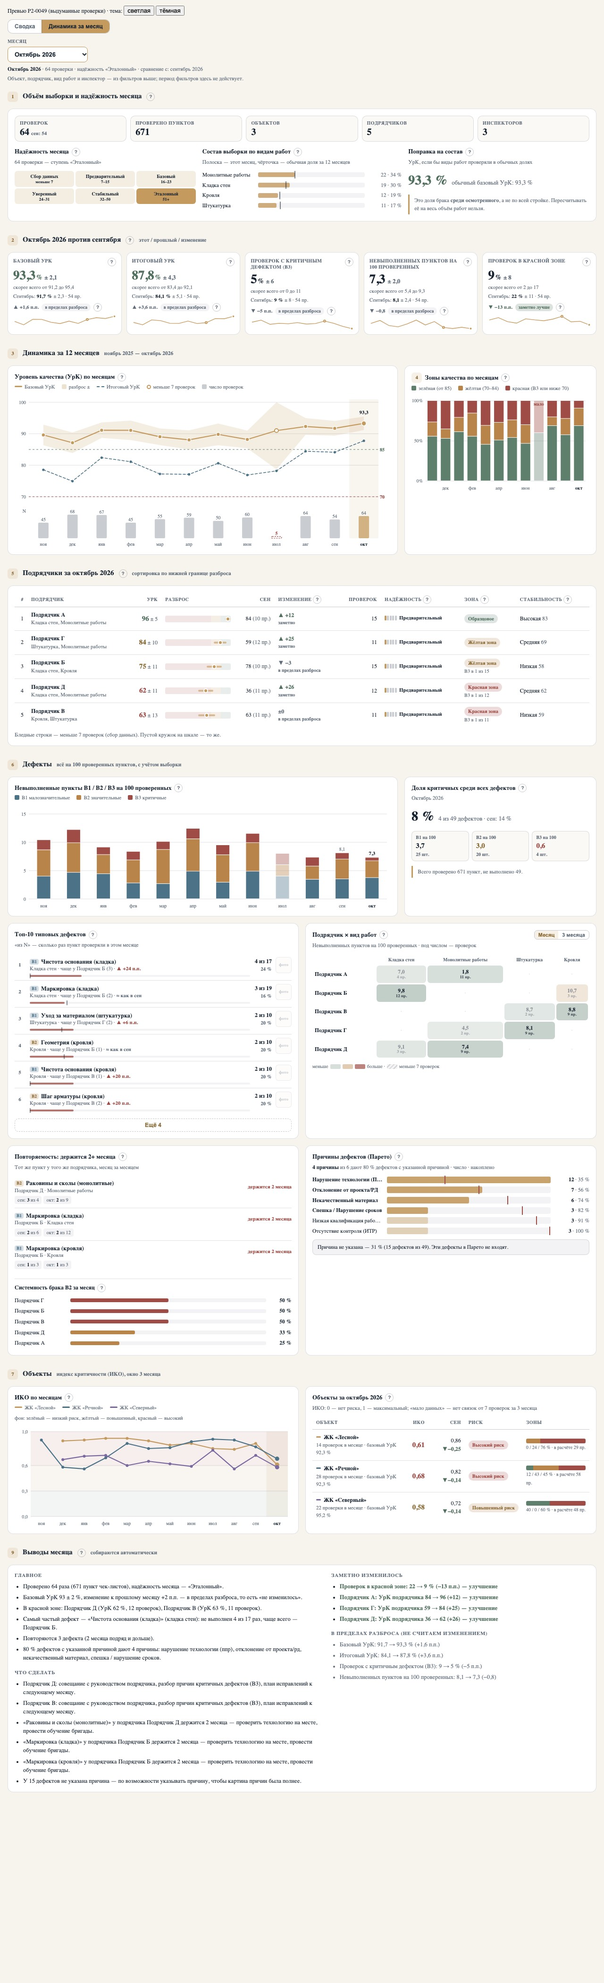
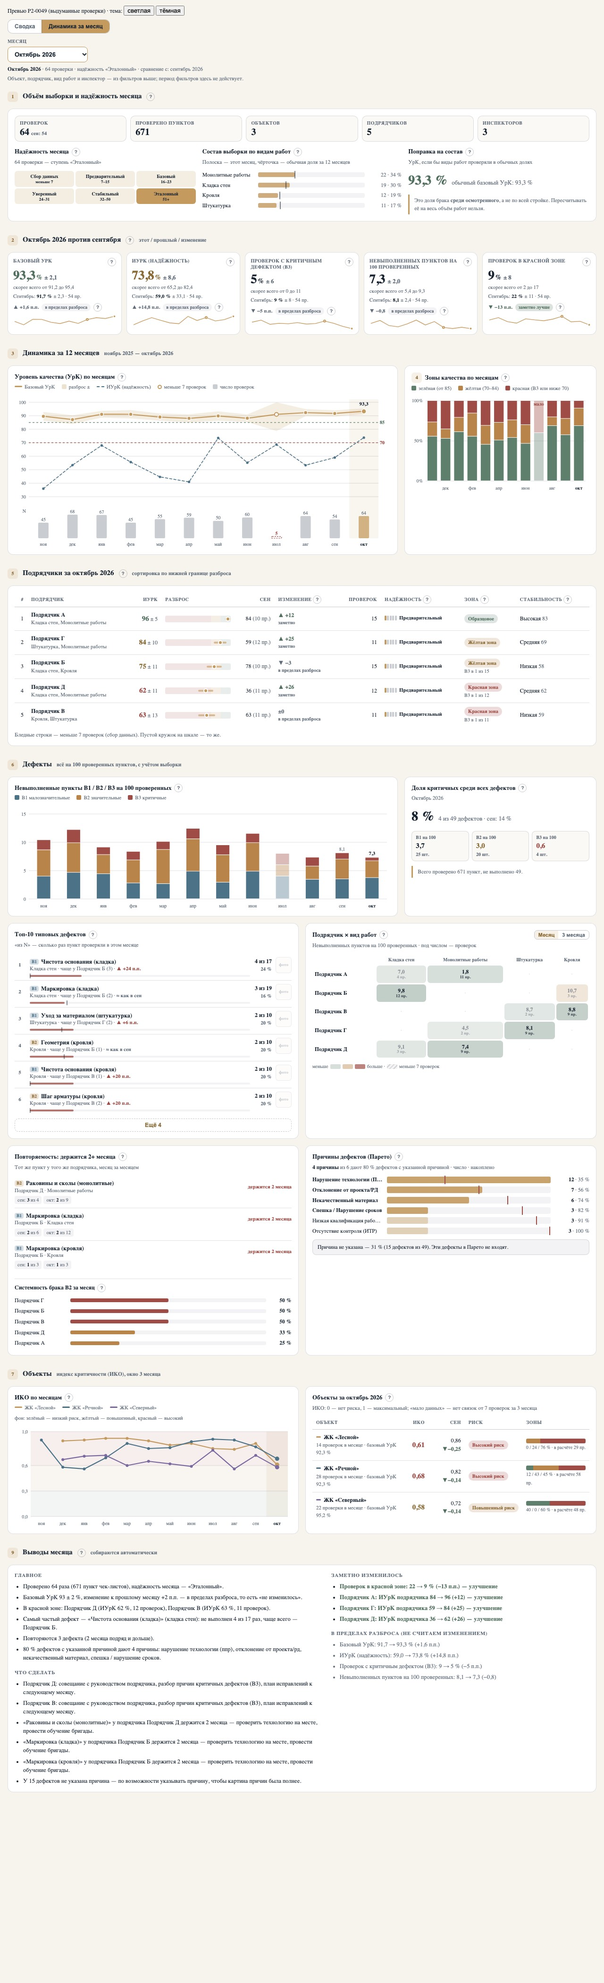
P2-0049 этап 3 (правка владельца): вторая плитка, пунктир тренда и столбец подрядчиков — ИУрК (интегральный уровень качества, надёжность по серии проверок) как «Надёжность» в Сводке: getContractorMetrics по группам «подрядчик [объект]» за месяц без окна, среднее по группам от 7 проверок, иначе «мало

Changed region(s): [[0.0625, 0.1871, 0.5938, 0.2495], [0.625, 0.811, 0.7188, 0.8421], [0.2188, 0.1248, 0.3125, 0.156]]

diff --git a/js/modules/quality/features/analytics/month-dynamics.view.js b/js/modules/quality/features/analytics/month-dynamics.view.js
@@ -33,13 +33,13 @@ const HINTS = {
   mix: '<b>Поправка на состав.</b> Если в месяце больше проверили «трудный» вид работ, общий УрК может упасть без реального ухудшения. Здесь УрК пересчитан так, будто виды работ проверяли в обычных долях за 12 месяцев.',
   delta: '<b>Этот / прошлый месяц.</b> Изменение «заметное», только если оно больше разброса обоих месяцев. Иначе — «в пределах разброса»: разница может быть случайной. Если в любом месяце меньше 7 проверок — «мало данных», не сравниваем.',
   base: '<b>Базовый УрК</b> — средняя доля выполненных пунктов с весами (B1 = 1, B2 = 2, B3 = 3) по проверкам месяца, без штрафов. Рядом — разброс ±: где скорее всего находится настоящее значение.',
-  final: '<b>Итоговый УрК</b> — УрК проверок со штрафами за значимые (B2) и критичные (B3) дефекты, как в карточке проверки.',
+  iurk: '<b>ИУрК — интегральный уровень качества (надёжность)</b> — уровень качества по серии проверок, как «Надёжность» в «Сводке»: у каждого подрядчика на объекте — по всем его проверкам месяца, со штрафами за системный брак B2 и долю проверок с B3; среднее — по подрядчикам, у кого от 7 проверок. Если таких нет — «мало данных».',
   b3share: '<b>Проверок с критичным дефектом</b> — доля проверок месяца, где найден хотя бы один B3.',
   per100: '<b>Невыполненных пунктов на 100 проверенных</b> — делим на пункты, а не на проверки: чек-листы разной длины.',
-  red: '<b>Красная зона</b> — проверки с критичным дефектом (B3) или итоговым УрК ниже 70.',
-  trend: '<b>Тренд за 12 месяцев.</b> Сплошная линия — базовый УрК, полоса вокруг — разброс ±, пунктир — итоговый УрК. Пустой кружок — меньше 7 проверок. Внизу — число проверок по месяцам.',
-  zones: '<b>Зоны качества</b> — доли проверок месяца: зелёная (итоговый УрК от 85), жёлтая (70–84), красная (B3 или ниже 70).',
-  cons: '<b>УрК подрядчика за месяц</b> — по всем проверкам календарного месяца (не «последние 15»), те же штрафы за системный брак и B3, что в рейтинге. Сортировка — по нижней границе разброса: подрядчик с двумя случайно хорошими проверками не окажется первым. Меньше 7 проверок — бледная строка, ниже всех.',
+  red: '<b>Красная зона</b> — проверки с критичным дефектом (B3) или с УрК проверки (со штрафами, как в карточке проверки) ниже 70.',
+  trend: '<b>Тренд за 12 месяцев.</b> Сплошная линия — базовый УрК, полоса вокруг — разброс ±, пунктир — ИУрК (надёжность по серии проверок). Пустой кружок — меньше 7 проверок. Внизу — число проверок по месяцам.',
+  zones: '<b>Зоны качества</b> — доли проверок месяца по УрК самой проверки (со штрафами, как в карточке проверки): зелёная (от 85), жёлтая (70–84), красная (B3 или ниже 70).',
+  cons: '<b>ИУрК подрядчика за месяц</b> (надёжность) — по всем проверкам календарного месяца (не «последние 15»), те же штрафы за системный брак и B3, что в рейтинге. Сортировка — по нижней границе разброса: подрядчик с двумя случайно хорошими проверками не окажется первым. Меньше 7 проверок — бледная строка, ниже всех.',
   stab: '<b>Стабильность</b> — насколько ровно работает подрядчик от проверки к проверке (100 — одинаково, ниже 40 — качество скачет).',
   zoneC: '<b>Зона подрядчика</b> — красная: УрК ниже 70, или B3 в 20 % проверок и больше, или системный брак B2 от 40 %; «Образцовое» — УрК от 85 без B3 и без системного брака.',
   bcl: '<b>B1 / B2 / B3 на 100 проверенных пунктов</b> — малозначительные, значительные и критичные невыполненные пункты, делённые на число осмотренных пунктов.',
@@ -384,7 +384,7 @@ function chartTrend(w, r) {
   const pl = 30, pr = narrow ? 8 : 26, pt = 16, h1 = narrow ? 170 : 200, gap = 26, h2 = narrow ? 52 : 62, h = pt + h1 + gap + h2 + 20;
   const { bw, x } = band(ms.length, w, pl, pr);
   let mn = 100;
-  ms.forEach((m) => { if (m.base) mn = Math.min(mn, m.base.lo != null ? m.base.lo : m.base.mean, m.final.mean); });
+  ms.forEach((m) => { if (m.base) mn = Math.min(mn, m.base.lo != null ? m.base.lo : m.base.mean, m.iurk ? m.iurk.mean : 100); });
   let ymin = Math.max(0, Math.floor((mn - 3) / 10) * 10);
   if (ymin > 70) ymin = 60;
   const y = lin(ymin, 100, pt + h1, pt);
@@ -418,15 +418,15 @@ function chartTrend(w, r) {
     });
     return '<path d="' + d + '" class="ln ' + cls + '"/>';
   };
-  s += line('final', 'ln-final');
+  s += line('iurk', 'ln-final');
   s += line('base', 'ln-base');
   ms.forEach((m, i) => {
     if (!m.base) return;
     const tip = monthFull(m.key) + ': проверок ' + m.N + (m.few ? ' (мало данных)' : '')
       + '\nБазовый УрК ' + fmt(m.base.mean, 1) + (m.base.E != null ? ' ± ' + fmt(m.base.E, 1) : '') + ' %'
-      + '\nИтоговый УрК ' + fmt(m.final.mean, 1) + ' %';
+      + (m.iurk ? '\nИУрК ' + fmt(m.iurk.mean, 1) + ' %' + (m.iurk.few ? ' (ни у кого нет 7 проверок)' : '') : '');
     s += '<g><title>' + esc(tip) + '</title>';
-    s += '<circle cx="' + x(i).toFixed(1) + '" cy="' + y(m.final.mean).toFixed(1) + '" r="2.6" class="dot-final"/>';
+    if (m.iurk) s += '<circle cx="' + x(i).toFixed(1) + '" cy="' + y(m.iurk.mean).toFixed(1) + '" r="2.6" class="dot-final"/>';
     s += '<circle cx="' + x(i).toFixed(1) + '" cy="' + y(m.base.mean).toFixed(1) + '" r="' + (i === sel ? 5 : 4) + '" class="' + (m.few ? 'dot-hollow' : 'dot-base') + '"/>';
     s += '<rect x="' + (x(i) - bw / 2).toFixed(1) + '" y="' + pt + '" width="' + bw.toFixed(1) + '" height="' + h1 + '" fill="transparent"/></g>';
     if (i === sel) s += txt(x(i), y(m.base.hi != null ? Math.min(100, m.base.hi) : m.base.mean) - 6, fmt(m.base.mean, 1), 'val');
@@ -573,13 +573,13 @@ function blockVolume(r, all) {
     + '<div class="md-note">Это доля брака <b>среди осмотренного</b>, а не по всей стройке. Пересчитывать её на весь объём работ нельзя.</div></div></div></div>';
 }
 
-const TILE_FMT = { base: { d: 1, u: ' %' }, final: { d: 1, u: ' %' }, b3share: { d: 0, u: ' %' }, per100: { d: 1, u: '' }, red: { d: 0, u: ' %' } };
+const TILE_FMT = { base: { d: 1, u: ' %' }, iurk: { d: 1, u: ' %' }, b3share: { d: 0, u: ' %' }, per100: { d: 1, u: '' }, red: { d: 0, u: ' %' } };
 
 function tileHtml(t, r) {
   const c = t.cur, p = t.prev, f = TILE_FMT[t.key], d = f.d, isPct = f.u === ' %';
   const head = '<div class="t-head"><span class="t-title">' + esc(t.title) + '</span>' + hint(t.key) + '</div>';
   if (!c) return '<div class="md-tile">' + head + '<div class="t-val md-muted">—</div><div class="t-range">нет проверок</div></div>';
-  const valCls = (t.key === 'base' || t.key === 'final') ? 'md-' + zoneOfUrk(c.mean) : '';
+  const valCls = (t.key === 'base' || t.key === 'iurk') ? 'md-' + zoneOfUrk(c.mean) : '';
   const cmp = t.cmp;
   const pp = isPct ? ' п.п.' : '';
   let dl;
@@ -611,7 +611,7 @@ function blockTrend(r) {
   const first = r.trend[0].key, last = r.trend[r.trend.length - 1].key;
   return '<h2 class="md-sec"><span class="n">3</span>Динамика за 12 месяцев<span class="note">' + esc(monthFull(first).toLowerCase()) + ' — ' + esc(monthFull(last).toLowerCase()) + '</span></h2>'
     + '<div class="md-card md-d4"><h3>Уровень качества (УрК) по месяцам' + hint('trend') + '</h3>'
-    + '<div class="md-lg"><span><i class="line" style="background:var(--md-gold)"></i>Базовый УрК</span><span><i style="background:var(--md-gold);opacity:.3"></i>разброс ±</span><span><i class="dash"></i>Итоговый УрК</span><span><i class="hollow"></i>меньше 7 проверок</span><span><i style="background:var(--md-line2)"></i>число проверок</span></div>'
+    + '<div class="md-lg"><span><i class="line" style="background:var(--md-gold)"></i>Базовый УрК</span><span><i style="background:var(--md-gold);opacity:.3"></i>разброс ±</span><span><i class="dash"></i>ИУрК (надёжность)</span><span><i class="hollow"></i>меньше 7 проверок</span><span><i style="background:var(--md-line2)"></i>число проверок</span></div>'
     + '<div class="md-chart" data-md-chart="trend"></div></div>'
     + '<div class="md-card md-d2"><h3><span class="md-sec" style="margin:0;font-size:13px"><span class="n">4</span></span>Зоны качества по месяцам' + hint('zones') + '</h3>'
     + '<div class="md-lg"><span><i style="background:var(--md-ok)"></i>зелёная (от 85)</span><span><i style="background:var(--md-warn)"></i>жёлтая (70–84)</span><span><i style="background:var(--md-bad)"></i>красная (B3 или ниже 70)</span></div>'
@@ -641,7 +641,7 @@ function blockCons(r) {
     return '<tr class="' + (m.conf.few ? 'faint' : '') + '">'
       + '<td data-label="Место" class="r rk">' + (i + 1) + '</td>'
       + '<td data-label="Подрядчик" class="name full nolbl"><span class="md-rk-inline">' + (i + 1) + '.</span>' + esc(x.name) + '<small>' + esc(x.types.join(', ')) + '</small></td>'
-      + '<td data-label="УрК за ' + monthShort(r.month) + '" class="r"><b class="md-' + zoneOfUrk(m.U) + '" style="font-size:15px">' + m.U + '</b>' + (m.E != null ? ' <span class="md-muted">± ' + fmt(m.E) + '</span>' : '') + '</td>'
+      + '<td data-label="ИУрК за ' + monthShort(r.month) + '" class="r"><b class="md-' + zoneOfUrk(m.U) + '" style="font-size:15px">' + m.U + '</b>' + (m.E != null ? ' <span class="md-muted">± ' + fmt(m.E) + '</span>' : '') + '</td>'
       + '<td data-label="Разброс (0–100)" class="full">' + rngBar(m) + '</td>'
       + '<td data-label="' + ps + '" class="r">' + (mp ? mp.U + ' <span class="md-muted">(' + mp.N + ' пр.)</span>' : '—') + '</td>'
       + '<td data-label="Изменение"><span class="md-dlt ' + dcls + '">' + dtxt + '<small>' + dsub + '</small></span></td>'
@@ -651,7 +651,7 @@ function blockCons(r) {
       + '<td data-label="Стабильность">' + esc(m.stabText) + ' <span class="md-muted">' + m.stab + '</span></td></tr>';
   }).join('');
   return '<h2 class="md-sec"><span class="n">5</span>Подрядчики за ' + esc(monthFull(r.month).toLowerCase()) + hint('cons') + '<span class="note">сортировка по нижней границе разброса</span></h2>'
-    + '<div class="md-card md-d6">' + (rows ? '<div class="md-tblw"><table class="md-tbl cards"><thead><tr><th class="r">#</th><th>Подрядчик</th><th class="r">УрК</th><th>Разброс</th><th class="r">' + ps + '</th><th>Изменение ' + hint('delta') + '</th><th class="r">Проверок</th><th>Надёжность ' + hint('conf') + '</th><th>Зона ' + hint('zoneC') + '</th><th>Стабильность ' + hint('stab') + '</th></tr></thead><tbody>' + rows + '</tbody></table></div>' : '<p class="md-muted">Нет проверок</p>')
+    + '<div class="md-card md-d6">' + (rows ? '<div class="md-tblw"><table class="md-tbl cards"><thead><tr><th class="r">#</th><th>Подрядчик</th><th class="r">ИУрК</th><th>Разброс</th><th class="r">' + ps + '</th><th>Изменение ' + hint('delta') + '</th><th class="r">Проверок</th><th>Надёжность ' + hint('conf') + '</th><th>Зона ' + hint('zoneC') + '</th><th>Стабильность ' + hint('stab') + '</th></tr></thead><tbody>' + rows + '</tbody></table></div>' : '<p class="md-muted">Нет проверок</p>')
     + '<p class="sub" style="margin:8px 0 0">Бледные строки — меньше 7 проверок (сбор данных). Пустой кружок на шкале — то же.</p></div>';
 }
 

diff --git a/js/modules/quality/features/analytics/month-dynamics.calc.js b/js/modules/quality/features/analytics/month-dynamics.calc.js
@@ -141,7 +141,7 @@ export function reliability(N) {
 export function compareMonths(cur, prev, higherIsBetter) {
   if (!cur || !prev) return { kind: 'few', d: null };
   var d = cur.mean - prev.mean;
-  if (cur.N < FEW_DATA_N || prev.N < FEW_DATA_N) return { kind: 'few', d: d };
+  if (cur.N < FEW_DATA_N || prev.N < FEW_DATA_N || cur.few || prev.few) return { kind: 'few', d: d };
   var notable = Math.abs(d) > (cur.E || 0) && Math.abs(d) > (prev.E || 0);
   return { kind: notable ? 'notable' : 'within', d: d, good: higherIsBetter ? d > 0 : d < 0 };
 }
@@ -235,6 +235,40 @@ export function typeShares(list) {
   return out;
 }
 
+/**
+ * ИУрК месяца — интегральный уровень качества (надёжность) по серии проверок, как «Надёжность» в «Сводке»
+ * (avgContractorRatingsFromChecks): у каждой группы «подрядчик [объект]» — getContractorMetrics по всем её
+ * проверкам месяца (без скользящего окна, штрафы за системный B2 и долю проверок с B3); среднее — по группам
+ * от 7 проверок. Нет ни одной такой группы — среднее по всем группам и пометка «мало данных».
+ * Разброс: по группам (их ≥ 2) или разброс самой группы, если она одна.
+ */
+export function integralUrk(list, opts) {
+  var w = _w();
+  var fn = (opts && opts.contractorMetrics) || w.getContractorMetrics;
+  var keyOf = typeof w.contractorGroupKey === 'function' ? w.contractorGroupKey
+    : function (c) { return checkContractor(c) + ' [' + checkObject(c) + ']'; };
+  list = (list || []).filter(hasMetrics);
+  if (typeof fn !== 'function' || !list.length) return null;
+  var g = {};
+  list.forEach(function (c) { var k = keyOf(c); (g[k] = g[k] || []).push(c); });
+  var all = [], ok = [];
+  Object.keys(g).forEach(function (k) {
+    var m = fn(g[k], (opts && opts.templates) || {}, false);
+    if (!m) return;
+    all.push(m);
+    if (m.count >= FEW_DATA_N) ok.push(m);
+  });
+  if (!all.length) return null;
+  var use = ok.length ? ok : all;
+  var st = meanWithMargin(use.map(function (m) { return m.finalC; }));
+  var E = use.length >= 2 ? st.E : (use[0].count >= 2 ? use[0].ci95_margin : null);
+  return {
+    N: list.length, mean: st.mean, E: E,
+    lo: E == null ? null : st.mean - E, hi: E == null ? null : st.mean + E,
+    groups: use.length, groupsAll: all.length, few: !ok.length
+  };
+}
+
 /** Плитки «этот / прошлый / изменение». */
 export function buildTiles(cur, prev) {
   function tile(key, title, c, p, higherIsBetter) {
@@ -242,7 +276,7 @@ export function buildTiles(cur, prev) {
   }
   return [
     tile('base', 'Базовый УрК', cur.base, prev.base, true),
-    tile('final', 'Итоговый УрК', cur.final, prev.final, true),
+    tile('iurk', 'ИУрК (надёжность)', cur.iurk, prev.iurk, true),
     tile('b3share', 'Проверок с критичным дефектом (B3)', cur.b3share, prev.b3share, false),
     tile('per100', 'Невыполненных пунктов на 100 проверенных', cur.per100, prev.per100, false),
     tile('red', 'Проверок в красной зоне', cur.red, prev.red, false)
@@ -265,10 +299,13 @@ export function computeMonthDynamics(checks, opts) {
   var prevKey = shiftMonth(month, -1);
   var cur = aggregateChecks(byMonth[month] || [], shares);
   var prev = aggregateChecks(byMonth[prevKey] || [], shares);
+  cur.iurk = integralUrk(cur.list, opts);
+  prev.iurk = integralUrk(prev.list, opts);
   var trend = keys.map(function (k) {
-    var a = aggregateChecks(byMonth[k] || [], shares);
+    var a = k === month ? cur : k === prevKey ? prev : aggregateChecks(byMonth[k] || [], shares);
+    var iu = k === month ? cur.iurk : k === prevKey ? prev.iurk : integralUrk(a.list, opts);
     return {
-      key: k, N: a.N, few: a.N < FEW_DATA_N, base: a.base, final: a.final,
+      key: k, N: a.N, few: a.N < FEW_DATA_N, base: a.base, final: a.final, iurk: iu,
       nRed: a.nRed, nYellow: a.nYellow, nGreen: a.nGreen,
       red: a.red, yellow: a.yellow, green: a.green, b3share: a.b3share, per100: a.per100,
       b1p: a.b1p, b2p: a.b2p, b3p: a.b3p, critShare: a.critShare
@@ -327,7 +364,7 @@ function _contractorZone(m) {
 }
 var ZONE_TEXT = { red: 'Красная зона', green: 'Образцовое', yellow: 'Жёлтая зона' };
 
-/** УрК подрядчика за набор проверок — getContractorMetrics из math.utils без скользящего окна. */
+/** ИУрК подрядчика за набор проверок — getContractorMetrics из math.utils без скользящего окна. */
 export function contractorMonthMetrics(list, opts) {
   var fn = (opts && opts.contractorMetrics) || _w().getContractorMetrics;
   if (typeof fn !== 'function' || !list || !list.length) return null;
@@ -531,7 +568,7 @@ function _fs(x, d) {
   return (v > 0 ? '+' : v < 0 ? '−' : '±') + _f(Math.abs(v), d);
 }
 
-var TILE_DIGITS = { base: 1, final: 1, b3share: 0, per100: 1, red: 0 };
+var TILE_DIGITS = { base: 1, iurk: 1, b3share: 0, per100: 1, red: 0 };
 
 export function buildFindings(r) {
   var cur = r.cur, out = { main: [], notable: [], within: [], recs: [], warn: [] };
@@ -555,11 +592,11 @@ export function buildFindings(r) {
   });
   (r.cons || []).forEach(function (x) {
     if (x.kind !== 'notable') return;
-    out.notable.push({ text: x.name + ': УрК подрядчика ' + x.mp.U + ' → ' + x.m.U + ' (' + _fs(x.d) + ')' + (x.d > 0 ? ' — улучшение' : ' — ухудшение'), good: x.d > 0 });
+    out.notable.push({ text: x.name + ': ИУрК подрядчика ' + x.mp.U + ' → ' + x.m.U + ' (' + _fs(x.d) + ')' + (x.d > 0 ? ' — улучшение' : ' — ухудшение'), good: x.d > 0 });
   });
   var red = (r.cons || []).filter(function (x) { return x.m.zone === 'red'; });
   var redOk = red.filter(function (x) { return !x.m.conf.few; });
-  if (redOk.length) out.main.push('В красной зоне: ' + redOk.map(function (x) { return x.name + ' (УрК ' + x.m.U + ' %, ' + x.m.N + ' ' + _pl(x.m.N, 'проверка', 'проверки', 'проверок') + ')'; }).join(', ') + '.');
+  if (redOk.length) out.main.push('В красной зоне: ' + redOk.map(function (x) { return x.name + ' (ИУрК ' + x.m.U + ' %, ' + x.m.N + ' ' + _pl(x.m.N, 'проверка', 'проверки', 'проверок') + ')'; }).join(', ') + '.');
   else if (red.length) out.main.push('Есть подрядчики в красной зоне, но по ним мало проверок (меньше 7) — вывод предварительный: ' + red.map(function (x) { return x.name; }).join(', ') + '.');
   if (r.top && r.top.length) {
     var t0 = r.top[0];

diff --git a/js/modules/quality/features/analytics/__tests__/month-dynamics.test.js b/js/modules/quality/features/analytics/__tests__/month-dynamics.test.js
@@ -159,6 +159,21 @@ describe('computeMonthDynamics', () => {
     assert.equal(r.tiles[0].cmp.kind, 'few');
     assert.equal(r.prev.base.mean, 74.5);
   });
+  it('ИУрК месяца — «Надёжность» как в Сводке: getContractorMetrics по серии проверок группы, без окна', () => {
+    window.clearMetricsCache();
+    const r = computeMonthDynamics(data, { month: '2026-09' });
+    const sept = data.filter((c) => c.metrics && String(c.date).startsWith('2026-09'));
+    const m = window.getContractorMetrics(sept, {}, false);
+    assert.equal(r.cur.iurk.groups, 1);
+    assert.equal(r.cur.iurk.mean, m.finalC);
+    assert.ok(Math.abs(r.cur.iurk.E - m.ci95_margin) < 1e-9);
+    assert.equal(r.tiles[1].key, 'iurk');
+    assert.equal(r.tiles[1].title, 'ИУрК (надёжность)');
+    // октябрь: 3 проверки — ни у кого нет 7 → «мало данных»
+    const oct = computeMonthDynamics(data, { month: '2026-10' });
+    assert.equal(oct.cur.iurk.few, true);
+    assert.equal(oct.tiles[1].cmp.kind, 'few');
+  });
   it('сходится с getContractorMetrics по тем же проверкам (без скользящего окна)', () => {
     window.clearMetricsCache();
     const r = computeMonthDynamics(data, { month: '2026-09' });
